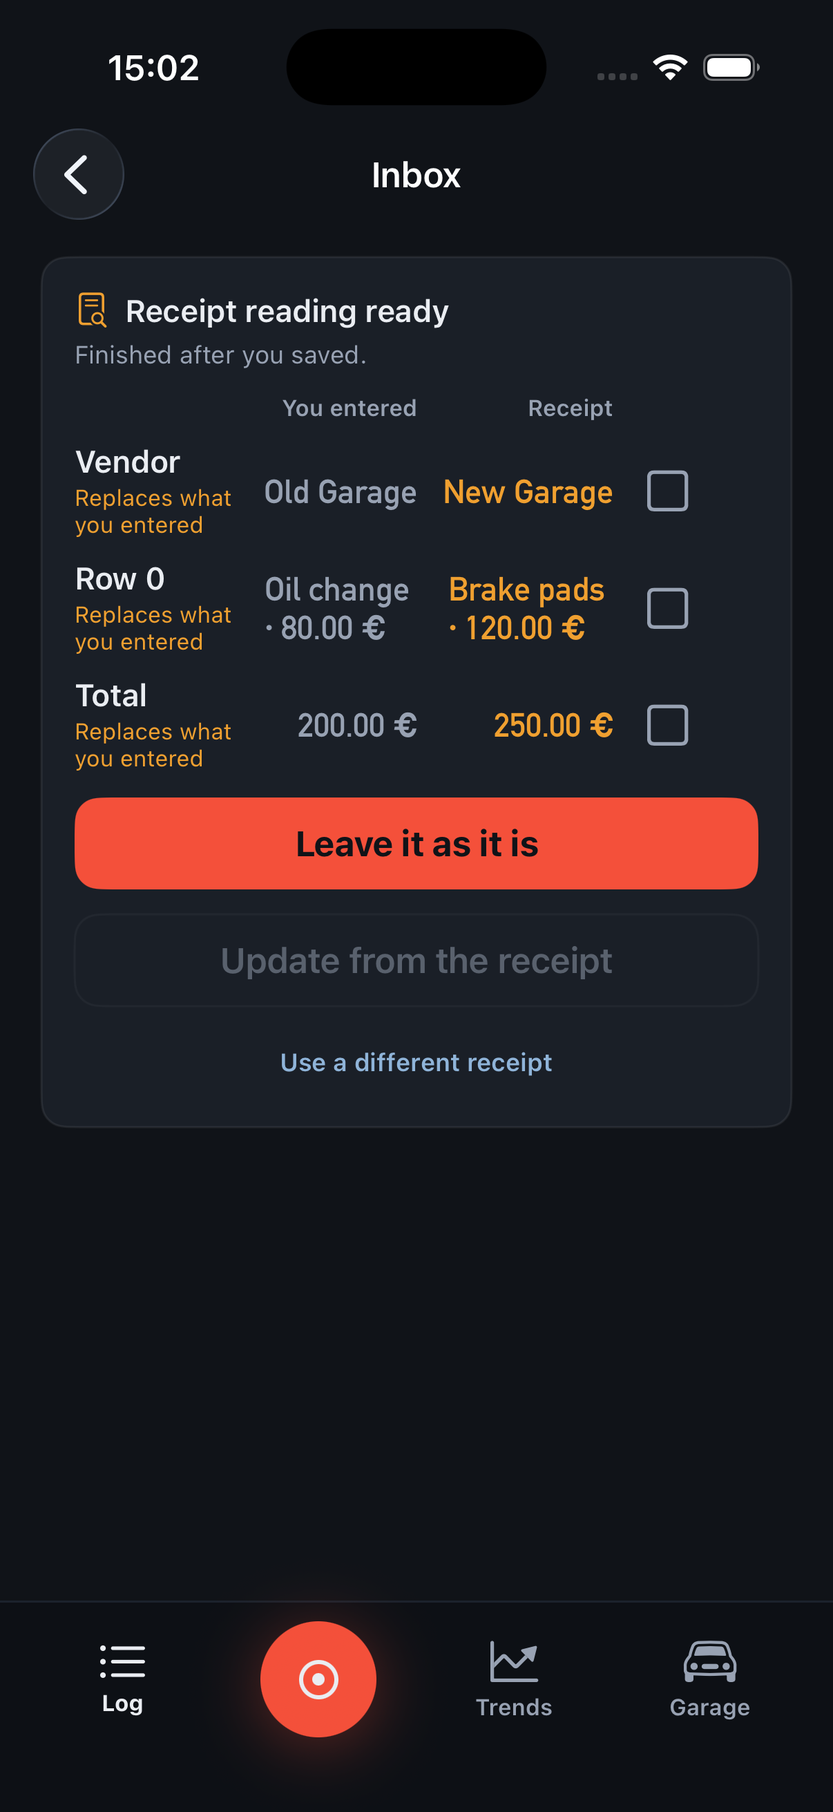
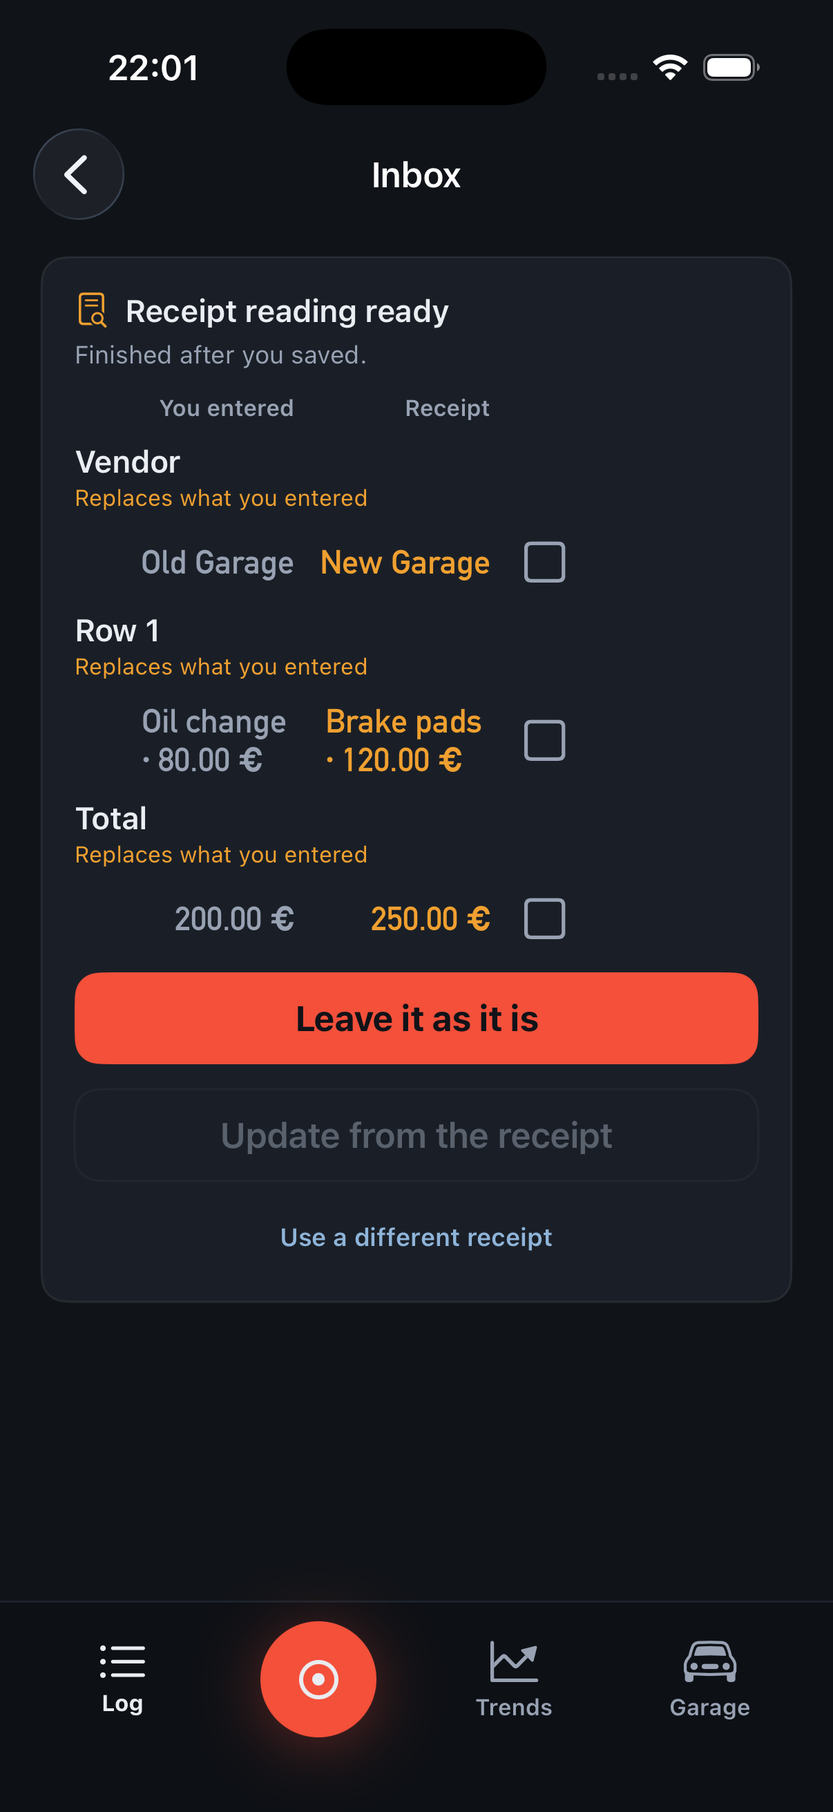
RV.216 + RV.217: the Inbox card counts from one, and its RU labels stop hyphenating
FieldLabel renders line items from one while FieldRef stays the items
index; each offer's label takes a full-width row above its comparison
so Мастерская is never squeezed into Мастер-ская. No font shrunk.

Verified here: String(n) again turns the row-number test red; restored;
swift test 0 at 2022 tests in 245 suites; lint 0. Both RU frames
opened - one word, on its own line.

diff --git a/ios/App/Tests/RV201InboxEntryKindTests.swift b/ios/App/Tests/RV201InboxEntryKindTests.swift
@@ -128,4 +128,82 @@ final class RV201InboxEntryKindTests: XCTestCase {
         XCTAssertFalse(FieldLabel.text(.category).isEmpty)
         XCTAssertFalse(FieldLabel.text(.lineItem(0)).isEmpty)
     }
+
+    // MARK: - RV.216 the line-item label counts from one
+
+    /// `FieldRef.lineItem` is an INDEX into `items`; the user counts from one, so
+    /// only the label is offset. Both halves are asserted here - the displayed
+    /// number AND the ref still addressing `items[0]` - because offsetting the ref
+    /// itself would make the merge write the wrong line.
+    func testLineItemLabelCountsFromOneWhileTheRefStaysAnIndex() throws {
+        XCTAssertEqual(FieldLabel.text(.lineItem(0)),
+                       String(format: L10n.localize("Row %@"), "1"),
+                       "the first line is Row 1, not Row 0")
+        XCTAssertEqual(FieldLabel.text(.lineItem(1)),
+                       String(format: L10n.localize("Row %@"), "2"),
+                       "the second line is Row 2")
+
+        // The test runner loads one locale; read both catalog entries so the
+        // words are pinned in EN and RU, where the label runs longest.
+        let catalog = try Self.readCatalog()
+        let en = try Self.localizedValue(catalog, key: "Row %@", language: "en")
+        let ru = try Self.localizedValue(catalog, key: "Row %@", language: "ru")
+        XCTAssertEqual(String(format: en, "1"), "Row 1")
+        XCTAssertEqual(String(format: ru, "1"), "Строка 1")
+
+        // `.lineItem(0)` still addresses the first saved item through the merge.
+        let (repository, vehicle) = try makeVehicle()
+        let now = Date()
+        let service = ServiceRecord(
+            id: UUID.v7(), createdAt: now, updatedAt: now, deletedAt: nil,
+            vehicleId: vehicle.id, date: now, odometer: 120_000,
+            money: Money(amount: Decimal(string: "200.00")!, currency: .eur, homeCurrency: .eur),
+            note: nil, attachments: [], provenance: .manual, conflict: .none,
+            purchaseGroupId: nil, vendor: "Old Garage",
+            items: [ServiceItem(title: "Oil change", category: .oil,
+                                cost: Money(amount: Decimal(string: "80.00")!,
+                                            currency: .eur, homeCurrency: .eur))],
+            usedParts: [], tireSetId: nil)
+        try repository.upsertServiceRecord(service)
+
+        let recognition = InboxRecognition.service(ServiceRecognition(
+            lineItems: [.init(title: "Brake pads", category: .brakes,
+                              cost: Money(amount: Decimal(string: "120.00")!,
+                                          currency: .eur, homeCurrency: .eur))]))
+        let merged = GatewayInboxPolicy.merged(entry: .service(service),
+                                               recognition: recognition,
+                                               taking: [.lineItem(0)])
+        guard case .service(let result) = merged else {
+            XCTFail("a service merge must stay a service")
+            return
+        }
+        XCTAssertEqual(result.items.first?.title, "Brake pads",
+                       "the ref addresses items[0]; the 1-based label must not move it")
+    }
+
+    // MARK: - Catalog reading (the ServerErrorCodeL10nTests pattern)
+
+    private static func readCatalog() throws -> [String: Any] {
+        let thisFile = URL(fileURLWithPath: #filePath).standardizedFileURL
+        var candidate = thisFile.deletingLastPathComponent() // ios/App/Tests
+        for _ in 0..<3 { candidate = candidate.deletingLastPathComponent() } // -> repo root
+        let catalogURL = candidate.appendingPathComponent("ios/App/Sources/Localizable.xcstrings")
+        let data = try Data(contentsOf: catalogURL)
+        return try XCTUnwrap(
+            try JSONSerialization.jsonObject(with: data) as? [String: Any],
+            "cannot parse Localizable.xcstrings at \(catalogURL.path)")
+    }
+
+    private static func localizedValue(_ catalog: [String: Any],
+                                       key: String,
+                                       language: String) throws -> String {
+        let strings = try XCTUnwrap(catalog["strings"] as? [String: Any])
+        let entry = try XCTUnwrap(strings[key] as? [String: Any],
+                                  "missing catalog key: \(key)")
+        let localizations = entry["localizations"] as? [String: Any]
+        let languageEntry = localizations?[language] as? [String: Any]
+        let stringUnit = languageEntry?["stringUnit"] as? [String: Any]
+        return try XCTUnwrap(stringUnit?["value"] as? String,
+                             "missing \(language) value for \(key)")
+    }
 }

diff --git a/ios/App/Sources/Inbox/InboxView.swift b/ios/App/Sources/Inbox/InboxView.swift
@@ -146,8 +146,20 @@ private struct InboxItemCard: View {
                 Color.clear.frame(width: 24, height: 1)
             }
             ForEach(offers) { offer in
+                // The label gets its own full-width line above the values.
+                // Squeezed into the value columns, a single-word RU label is
+                // compressed until it breaks mid-word ("Мастер-ская"); here it
+                // has the card's whole width and cannot hyphenate. The label
+                // spans the value columns and the row below reuses the same
+                // grid, so the comparison stays column-aligned.
                 GridRow {
                     fieldCell(offer)
+                        .gridCellColumns(3)
+                        .gridColumnAlignment(.leading)
+                    Color.clear.frame(width: 24, height: 1)
+                }
+                GridRow {
+                    Color.clear.frame(width: 20, height: 1)
                     Text(InboxValueFormat.yours(offer.field, entry: entry))
                         .valueStyle(emphasis: .muted)
                         .gridColumnAlignment(.trailing)
@@ -165,11 +177,12 @@ private struct InboxItemCard: View {
             Text(InboxValueFormat.label(offer.field))
                 .font(.subheadline.weight(.semibold))
                 .foregroundStyle(Theme.Palette.ink)
+                .fixedSize(horizontal: false, vertical: true)
             Text(verb(for: offer))
                 .font(.caption2)
                 .foregroundStyle(offer.disposition == .differs ? Theme.Palette.warn : Theme.Palette.inkSoft)
+                .fixedSize(horizontal: false, vertical: true)
         }
-        .gridColumnAlignment(.leading)
     }
 
     private func tickButton(_ offer: GatewayInboxPolicy.FieldOffer) -> some View {

diff --git a/ios/App/UITests/InboxUITests.swift b/ios/App/UITests/InboxUITests.swift
@@ -280,6 +280,10 @@ final class InboxUITests: XCTestCase {
                       "the invoice's first line must be tickable")
         XCTAssertTrue(app.buttons["inboxTick_total"].exists,
                       "the service total must be tickable")
+        XCTAssertTrue(app.staticTexts["Row 1"].waitForExistence(timeout: 5),
+                      "the first line is labelled from one, not zero (RV.216)")
+        XCTAssertFalse(app.staticTexts["Row 0"].exists,
+                       "a zero-based line label is the defect")
         XCTAssertFalse(app.buttons["inboxTick_volume"].exists,
                        "a service offer has no fuel fields")
         XCTAssertFalse(app.buttons["inboxTick_other"].exists,
@@ -302,6 +306,10 @@ final class InboxUITests: XCTestCase {
         XCTAssertTrue(app.buttons["inboxTick_vendor"].waitForExistence(timeout: 5))
         XCTAssertTrue(app.buttons["inboxTick_lineItem_0"].exists)
         XCTAssertTrue(app.buttons["inboxTick_total"].exists)
+        XCTAssertTrue(app.staticTexts["Строка 1"].waitForExistence(timeout: 5),
+                      "the first line is labelled from one in RU too (RV.216)")
+        XCTAssertFalse(app.staticTexts["Строка 0"].exists,
+                       "a zero-based line label is the defect")
         app.buttons["inboxLeaveButton"].tap()
         XCTAssertTrue(app.descendants(matching: .any)["inboxEmptyState"].waitForExistence(timeout: 5))
     }

diff --git a/ios/App/Sources/Shared/FieldLabel.swift b/ios/App/Sources/Shared/FieldLabel.swift
@@ -25,7 +25,12 @@ enum FieldLabel {
         case .vendor: return L10n.localize("Vendor")
         case .energy: return L10n.localize("Energy")
         case .category: return L10n.localize("Category")
-        case .lineItem(let n): return String(format: L10n.localize("Row %@"), String(n))
+        case .lineItem(let n):
+            // `FieldRef.lineItem` is an INDEX into the entry's `items` (the merge
+            // and the recognition both address it that way); the user counts from
+            // one, so only the LABEL is offset. Offsetting the ref itself would
+            // make the merge write the wrong line.
+            return String(format: L10n.localize("Row %@"), String(n + 1))
         }
     }
 }

diff --git a/docs/TASKS.md b/docs/TASKS.md
@@ -62,8 +62,8 @@ dispatch ledger moved to `docs/TASKS-HISTORY.md`.*
 | RV.214 | (J7 "the invoice in your hand", J7b the shop receipt) The service create gate demands a titled | `[ ]` | below · PJ · Journeys review (2026-08-29) |
 | RV.204 | (J3 the fill-up receipt, J7 the service invoice) DECIDED 2026-09-11 (product owner): degrade ev | `[ ]` | below · PJ · Journeys review (2026-08-29) |
 | RV.205 | (J7b "a shop receipt is an expense") The receipts corpus cannot measure expense-kind recognitio | `[!]` | below · PJ · Journeys review (2026-08-29) |
-| RV.216 | (J3 "the receipt catches up with you", J7 the invoice in your hand) The Inbox names a service l | `[ ]` | below · PJ · Journeys review (2026-08-29) |
-| RV.217 | (J3 "the receipt catches up with you") The Inbox's RU label column is too narrow and hyphenates | `[ ]` | below · PJ · Journeys review (2026-08-29) |
+| RV.216 | (J3 "the receipt catches up with you", J7 the invoice in your hand) The Inbox names a service l | `[x]` | below · PJ · Journeys review (2026-08-29) |
+| RV.217 | (J3 "the receipt catches up with you") The Inbox's RU label column is too narrow and hyphenates | `[x]` | below · PJ · Journeys review (2026-08-29) |
 | RV.224 | (J7 the invoice in your hand) The "· invoice" date caption survives the user changing the date | `[ ]` | below · PJ · Journeys review (2026-08-29) |
 | RV.225 | (F3 no internet at the pump) F3's success metric cannot be measured: no capture event says whet | `[ ]` | below · PJ · Journeys review (2026-08-29) |
 | RV.226 | (F8 permissions and hardware said no) A parental-controls user is told to enable the camera in | `[ ]` | below · PJ · Journeys review (2026-08-29) |
@@ -759,8 +759,8 @@ route through (Welcome, Reminders, the S5 notice, the post-sign-in push) exist o
 | **[ ]** RV.214 | (J7 "the invoice in your hand", J7b the shop receipt) **The service create gate demands a titled line item, and the Log row can name the service without one.** Found by the [RV.206] agent while relaxing the expense gate one entry kind over: `ServiceEntryView.saveEnabled` requires `form.hasTitledItem` (`ServiceEntryView.swift:210`, hint at `:478`), but `EntryTitle`'s service chain ([RV.187]) falls back from the vendor to the first named item to that item's category - so a service with a readable vendor, or an item whose category names it, is already nameable while Save stays disabled. The scanned path can reach it: `InvoiceSplitter`'s lump-sum fallback titles its single item `vendor ?? ""`, so an invoice whose vendor did not read leaves an untitled item and blocks the save. **It is NOT the expense defect**: an expense still requires an amount, so dropping its title check cannot produce a blank row, while the service form has no amount requirement - `hasTitledItem` is the only thing between the app and a wholly empty `ServiceRecord`. So this is a decision, not a deletion | Decide what makes a service non-empty: a vendor, a category-bearing item or a cost is content, a wholly blank record stays refused. Then make `hasTitledItem` and `serviceEntrySaveHint` express that rule, and make the hint name whatever is still missing (hard rule 7) | L1: a service with a vendor and no titled item is saveable and its Log row reads the vendor. L1: one with only a named item category is saveable and reads the category. L1: a wholly blank service is still refused. L4 EN+RU. **Vacuous trap**: deleting `hasTitledItem` outright, which lets a blank service save - [RV.206]'s own warning one entry kind over | Filed, not fixed: same shape as [RV.206] but a different gate on a different type, and the right rule is a product decision |
 | **[ ]** RV.204 | (J3 the fill-up receipt, J7 the service invoice) **DECIDED 2026-09-11 (product owner): degrade everywhere** - the save lands, the photo failure is reported after it, re-attach is the next step. **One screen, two contracts for the same failure.** Found by the [RV.202] agent and reported rather than papered over: when a photo write fails, the **fill-up** edit path BLOCKS and warns in place (`attachFailedWarn`, the entry unchanged - [PJ.48]'s contract), while the **non-fill** path RV.202 just added DEGRADES and toasts (the entry saves without the photo, [RV.149]'s contract). **Both report, so neither is silent** - the hard-rule-8 floor holds either way - but they are the same screen, the same gesture and the same failure, behaving differently depending on which kind of entry the user opened | **Decide which contract is right and make both obey it.** The arguments are real on both sides: blocking keeps the entry and its receipt atomic, degrading keeps a save the user asked for from being lost to a storage failure. `docs/ERRORS.md` -> Edit entry now documents BOTH rows, which is the tell that this is undecided rather than designed | L1 from both entry kinds asserting the SAME outcome - whichever is chosen - so the pair cannot drift again. L4 in both, EN+RU. **Vacuous trap**: documenting the difference as intentional without a reason a user would recognise | Neither contract is wrong today; the inconsistency is |
 | **[!]** RV.205 | (J7b "a shop receipt is an expense") **The receipts corpus cannot measure expense-kind recognition: it holds 16 images and ZERO non-fuel ones.** Found by the [RV.200] agent and confirmed by the orchestrator (`ls Spike/ReceiptSpike/fixtures/receipts/` - no parking, toll, wash, insurance or fine image). RV.200's vocabulary is therefore verified against **hand-written text fixtures**, which prove the matcher works and prove nothing about what a photographed parking ticket actually OCRs to. **The agent refused to tune a keyword list to two images and said so**, which is the correct outcome and leaves the row here | **Photographs, from the product owner** - a handful each of parking, toll, car wash, insurance and a fine, in RU and EN, added to `fixtures/receipts/` under the naming convention that makes the FILENAME the oracle ([RV.161]'s rule: ground truth written from the image before any extractor sees it). Then score the vocabulary against them and record the mark | The corpus scorer reports a real number for the expense-kind class, and `RV.200`'s vocabulary is tuned against photographs rather than typed text. **Vacuous trap**: scoring against the extractor's own output, which is exactly how `RV.161` produced a fake 46/46 | **Not agent work** - it needs someone with the receipts and a camera. `RV.114` is its sibling for pump photos |
-| **[ ]** RV.216 | (J3 "the receipt catches up with you", J7 the invoice in your hand) **The Inbox names a service line item `Row 0`.** Found by the orchestrator opening [RV.201]'s screenshots - both locales: EN *"Row 0"*, RU *"Строка 0"*. `FieldLabel` renders `.lineItem(n)` with the array index verbatim (`FieldLabel.swift:28`), and users count from one. [RV.201]'s agent fixed the neighbouring bug in that exact line - the label used to render `Row %@ 0` because both surfaces interpolated the format string - and did not notice the number itself was wrong | Render `n + 1`. **Decide where**: the offset belongs in the label, not in `FieldRef`, because the ref is an index into `items` and must stay one | L1: `.lineItem(0)` renders *"Row 1"* / *"Строка 1"*, and the ref still addresses `items[0]` - both asserted, or the fix moves the bug into the merge. L4 EN+RU. **Vacuous trap**: offsetting `FieldRef` itself, which would make the merge write the wrong line | **No test could have caught this** - XCUITest asserts the identifier `inboxTick_lineItem_0`, never the words on screen |
-| **[ ]** RV.217 | (J3 "the receipt catches up with you") **The Inbox's RU label column is too narrow and hyphenates.** Found by the orchestrator opening [RV.201]'s RU screenshot: *Мастерская* breaks as **Мастер-ская** across two lines, in a three-column comparison whose left column is fixed. **This is the shape the product owner already rejected once** - on 2026-09-10 a hint inlined into a narrow value column hyphenated into a five-line RU stack (`поме-чаются`, `«Тре-буют`) and the instruction was that such labels *"should be at the bottom and take the whole width of the box"*. The Inbox card is a different screen and the same mistake | Give the label column the width it needs, or stack the label above its comparison row. **Look at `Мастерская`, `Стоимость` and `Категория` together** - the longest RU label decides the column, and a fix measured against the English will fail again | L4 EN+RU screenshots, opened by the orchestrator: no RU label hyphenates. **Vacuous trap**: shrinking the font until it fits, which breaks the DESIGN.md type scale instead of the layout | RU runs 20-30% longer and short strings expand worst - the standing reason every UI task ships both locales |
+| **[x]** RV.216 | (J3 "the receipt catches up with you", J7 the invoice in your hand) **The Inbox names a service line item `Row 0`.** Found by the orchestrator opening [RV.201]'s screenshots - both locales: EN *"Row 0"*, RU *"Строка 0"*. `FieldLabel` renders `.lineItem(n)` with the array index verbatim (`FieldLabel.swift:28`), and users count from one. [RV.201]'s agent fixed the neighbouring bug in that exact line - the label used to render `Row %@ 0` because both surfaces interpolated the format string - and did not notice the number itself was wrong | Render `n + 1`. **Decide where**: the offset belongs in the label, not in `FieldRef`, because the ref is an index into `items` and must stay one | L1: `.lineItem(0)` renders *"Row 1"* / *"Строка 1"*, and the ref still addresses `items[0]` - both asserted, or the fix moves the bug into the merge. L4 EN+RU. **Vacuous trap**: offsetting `FieldRef` itself, which would make the merge write the wrong line | **No test could have caught this** - XCUITest asserts the identifier `inboxTick_lineItem_0`, never the words on screen | **DONE 2026-09-11.** `FieldLabel` renders `.lineItem(n)` as `n + 1` - *Row 1* / *Строка 1* - and `FieldRef` stays the `items` index; the attach page reaches the same table, so it moved with it. **Mutation (orchestrator-run)**: `String(n)` again turns `testLineItemLabelCountsFromOneWhileTheRefStaysAnIndex` red - *"the first line is Row 1, not Row 0"* - restored byte-identical, 6/6. Gates in the orchestrator's hands: `swift test` 0 at **2022 tests / 245 suites**, lint 0; agent's `InboxUITests` 12/12. Screenshots opened by the orchestrator: *Строка 1*. |
+| **[x]** RV.217 | (J3 "the receipt catches up with you") **The Inbox's RU label column is too narrow and hyphenates.** Found by the orchestrator opening [RV.201]'s RU screenshot: *Мастерская* breaks as **Мастер-ская** across two lines, in a three-column comparison whose left column is fixed. **This is the shape the product owner already rejected once** - on 2026-09-10 a hint inlined into a narrow value column hyphenated into a five-line RU stack (`поме-чаются`, `«Тре-буют`) and the instruction was that such labels *"should be at the bottom and take the whole width of the box"*. The Inbox card is a different screen and the same mistake | Give the label column the width it needs, or stack the label above its comparison row. **Look at `Мастерская`, `Стоимость` and `Категория` together** - the longest RU label decides the column, and a fix measured against the English will fail again | L4 EN+RU screenshots, opened by the orchestrator: no RU label hyphenates. **Vacuous trap**: shrinking the font until it fits, which breaks the DESIGN.md type scale instead of the layout | RU runs 20-30% longer and short strings expand worst - the standing reason every UI task ships both locales | **DONE 2026-09-11.** Each offer's label takes its own full-width row above its comparison row (`gridCellColumns(3)`), so the RU label can never be compressed into a hyphen; value columns keep their alignment; no font shrunk. Re-shot `RV.201-inbox-service` and `RV.45-comparison` (the shared table changed), EN+RU. **Opened by the orchestrator**: *Мастерская* is one word, *Заменит введённое* / *Заполнит пустое поле* on their own lines. The values under the *Вы ввели · Чек* headers read a little ragged across rows (text right-aligned, money centred) - noted, not filed; the hyphenation the row was about is gone. |
 | **[ ]** RV.224 | (J7 the invoice in your hand) **The "· invoice" date caption survives the user changing the date.** Found by `REVIEW-SCENARIO-J7-2026-09-11` as the scenario's one unowned promise: `dateFromInvoice` keeps its provenance caption after a manual edit, so the form claims the date came from the invoice when the user has overridden it. Hard rule 13 - once changed, it is theirs, and the screen must not say otherwise | Clear the caption when the date field changes after a scan | L4 `ServiceEntryUITests` EN+RU: scan seed, change the date, caption gone | **polish** - folds into the service create-door seam with `RV.213`/`RV.214` |
 | **[ ]** RV.225 **[v1.0.x]** | (F3 no internet at the pump) **F3's success metric cannot be measured: no capture event says whether it happened offline.** Found by `REVIEW-SCENARIO-F3-2026-09-11`, the review that marked F3 implemented - the behaviour is right, only the measurement is absent. `capture.pipeline` carries `pipelineId`, `durationMs`, per-field confidence, `crossCheck`, `userCorrected` (`LogEvents.swift:523-546`, `CaptureCommitLog.swift:30-43`); `AppPathMonitor` observes connectivity (`:40`) and nothing joins the two | One Safe field on `capture.pipeline` from the path monitor's last status, so *"offline captures complete at the same rate"* is answerable from a diagnostics export | L1: a capture under a seeded offline path emits the flag; under a satisfied path the opposite. Field name and value only - never a domain value (hard rule 12) | **polish**, post-launch |
 | **[ ]** RV.226 | (F8 permissions and hardware said no) **A parental-controls user is told to enable the camera in Settings, where no toggle exists.** Found by `REVIEW-SCENARIO-F8-2026-09-11b` and left unfiled as an edge case; filed because it is `RV.164`'s shape exactly - an error naming a next step that does not exist (hard rule 7). `SystemCameraAuthorizer.status()` maps `.restricted` to `.denied` (`CaptureCamera.swift:58`), so the denied card says *enable in Settings* to a user whose device policy forbids the camera and offers no such toggle | Give `.restricted` its own state and copy: the manual door is the only next step, and the card says why. Same card as [RV.223]'s fault state, one more case of `CaptureSurfaceState.resolve` | L1 in `CaptureSurfaceTests`: `.restricted` resolves to the restricted card, never the Settings one. L4 EN+RU with the authorizer seeded `.restricted`. **Mutation**: map `.restricted` back to `.denied`; the L1 goes red | Small; the same seam `RV.222`/`RV.223` just built. F8's status line stands - this does not change what the journey promises, it is a bug against it - but `scenario-index.py` will list F8 open again until it ships, which is the honest state |
